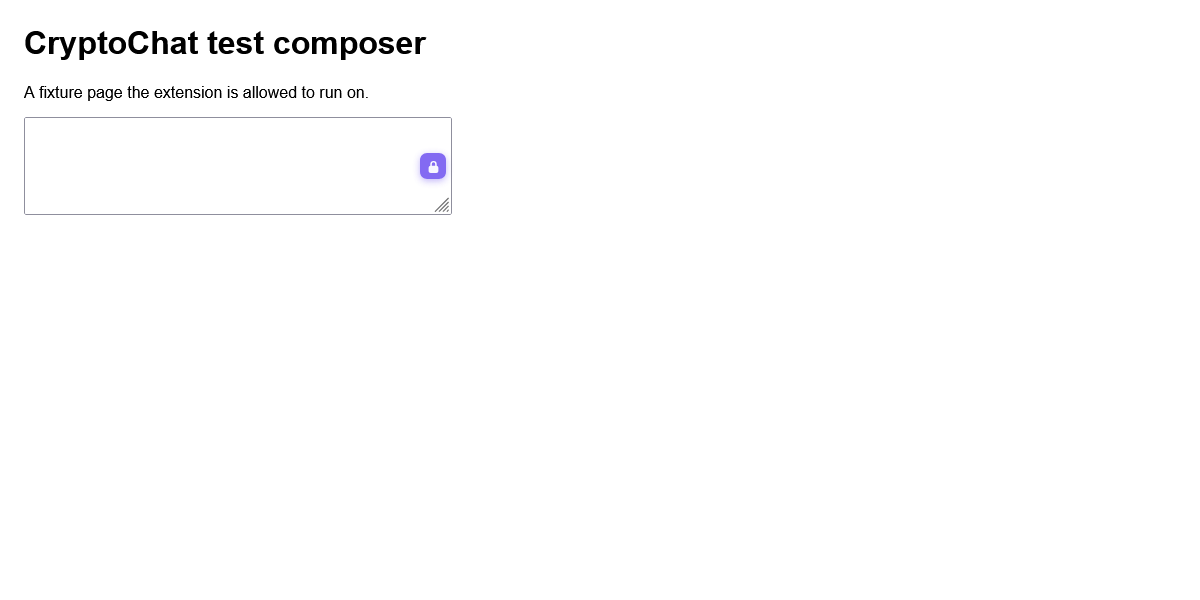
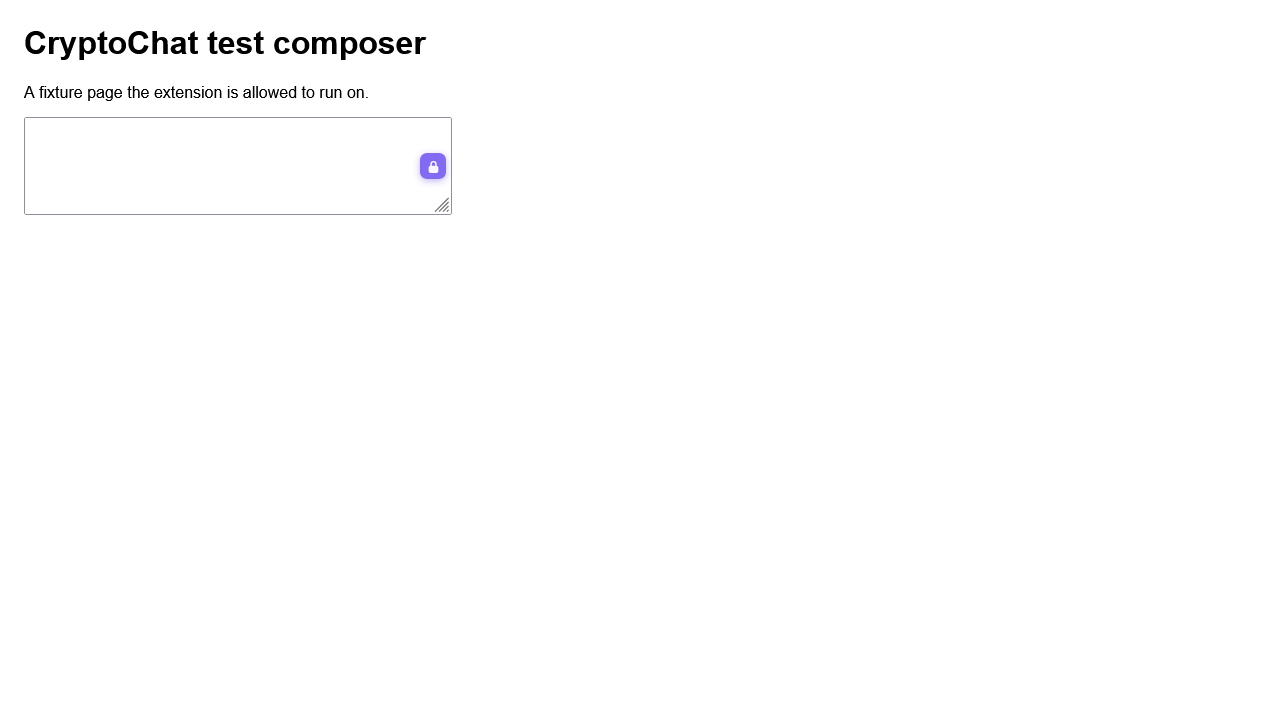
chore: drop stale root images; cap screenshots at 1280x800
- remove unreferenced ciphertext.png, howitworks.png, contact*.png, validation-testing.gif
- screenshot runner sets a 1280x800 window; re-captured assets/screenshots (1280x714)

diff --git a/test/e2e/screenshot.js b/test/e2e/screenshot.js
@@ -7,6 +7,7 @@
  *   npm run test:screenshots
  *
  * Output: assets/screenshots/*.png  (override with CC_SHOT_DIR)
+ * Images are capped at 1280x800.
  * Env:    CC_E2E_HEADED=1 to watch the browser, LIBREWOLF_PATH/GECKODRIVER_PATH
  */
 
@@ -15,6 +16,7 @@ import path from 'node:path';
 import * as H from './lib/harness.js';
 
 const OUT = process.env.CC_SHOT_DIR || path.join(H.ROOT, 'assets', 'screenshots');
+const MAX_W = 1280, MAX_H = 800;
 
 async function shot(driver, name) {
   const b64 = await driver.takeScreenshot();
@@ -37,6 +39,8 @@ async function panelReady(driver) {
   const driver = await H.launchWithAddon({ headless: process.env.CC_E2E_HEADED !== '1' });
 
   try {
+    // Cap the capture so screenshots stay within 1280x800 for the README/Pages.
+    await driver.manage().window().setRect({ width: MAX_W, height: MAX_H });
     await driver.get(baseUrl);
 
     const btn = await H.waitForOverlay(driver);
